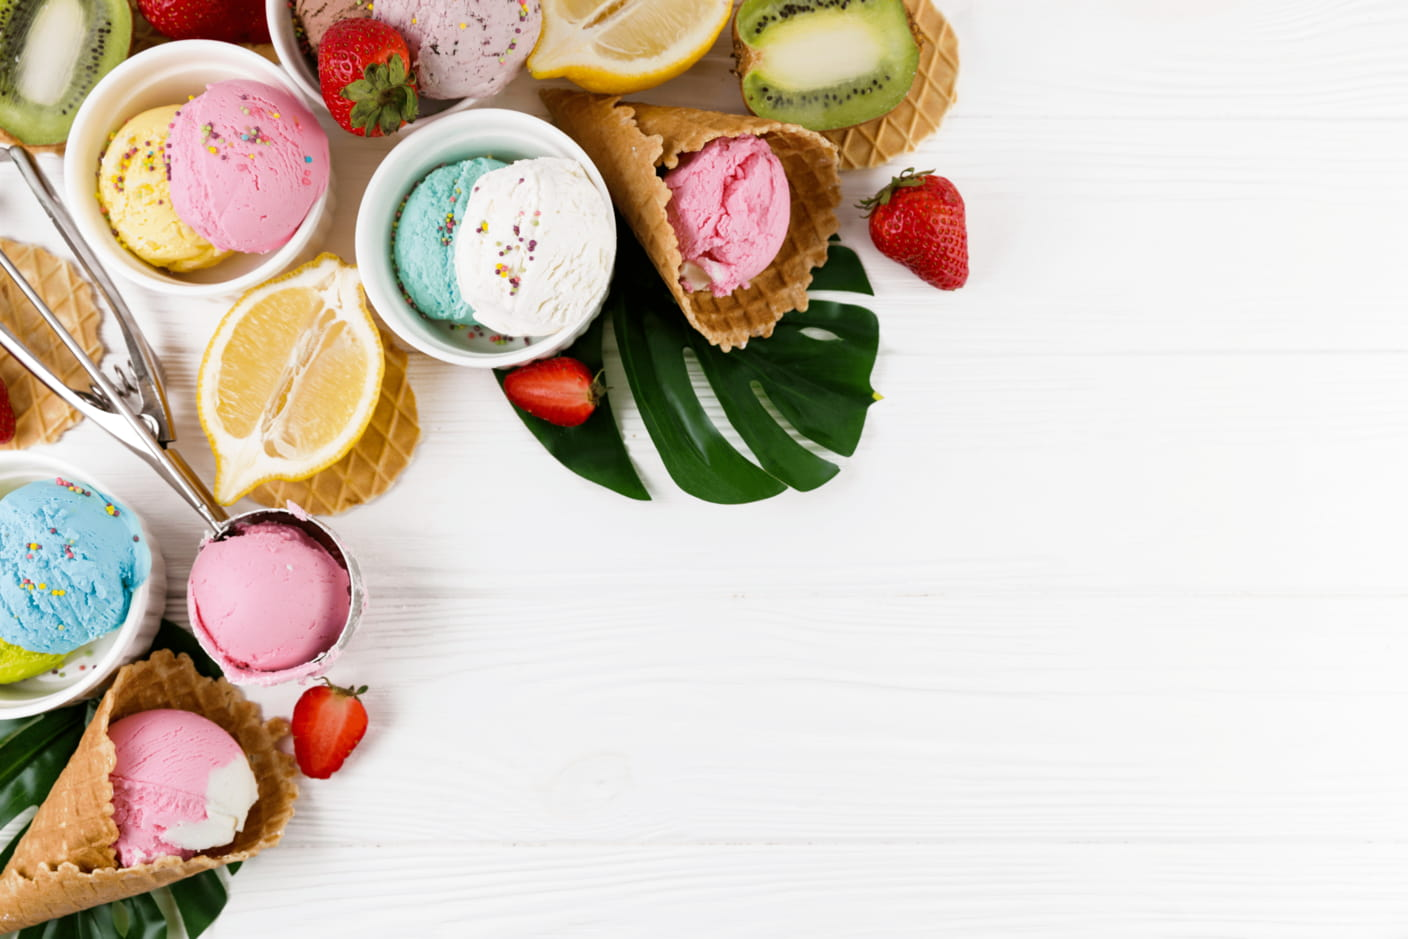
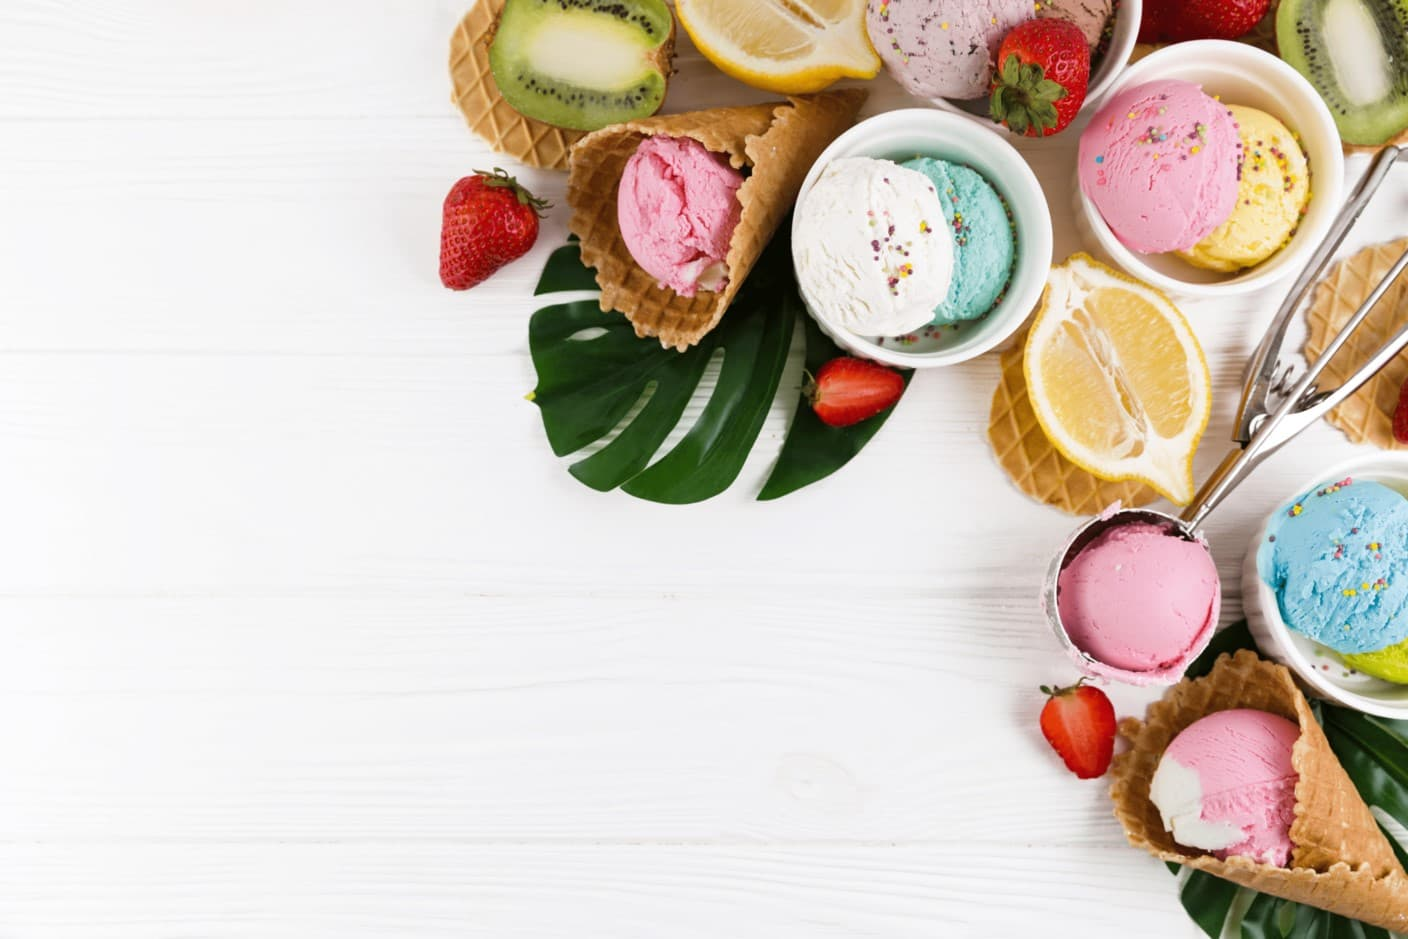
Редактирует фон в блоке delivery

diff --git a/index.html b/index.html
@@ -7,6 +7,8 @@
     <meta name="viewport" content="width=device-width, initial-scale=1.0">
     <title>Главная</title>
     <link rel="stylesheet" href="styles/styles.css">
+    <link href="/examples/libs/ui-components/itc-slider/itc-slider.css" rel="stylesheet">
+    <script src="/examples/libs/ui-components/itc-slider/itc-slider.js" defer></script>
   </head>
 
   <body>
@@ -393,7 +395,7 @@
 
           <div class="delivery-container">
             <h2 class="delivery-title">Доставка любимого мороженого на дом</h2>
-            <p class="delivery-text">Хочется полакомиться любимым десертом, но нет времени съездить в магазин? Закажите
+            <p class="delivery-text">Хочется полакомиться любимым десертом,<br> но нет времени съездить в магазин? Закажите
               доставку мороженого на
               дом, и курьер привезёт вам ваш заказ в течение часа!</p>
           </div>

diff --git a/styles/styles.css b/styles/styles.css
@@ -724,7 +724,7 @@ body {
 .newsletter {
   background-color: #FFFFFF;
   background-image: url(../images/lines-background.jpg);
-  background-size: 100%;
+  background-size: 110%;
   flex-basis: 50px;
   border-radius: 16px;
   flex-grow: 0;
@@ -774,7 +774,9 @@ body {
 .delivery {
   background-color: #FFFFFF;
   background-image: url(../images/icecream-and-fruit.jpg);
-  background-position: right;
+  background-position: 50% 50%;
+  background-repeat: no-repeat;
+  background-size: cover;
   border-radius: 16px;
   display: flex;
   justify-content: space-around;
@@ -807,7 +809,7 @@ body {
   border-radius: 8px;
   max-width: 500px;
   padding: 40px 40px 0;
-  margin-right: -10px;
+  margin-right: -6px;
 }
 
 .delivery-form {
